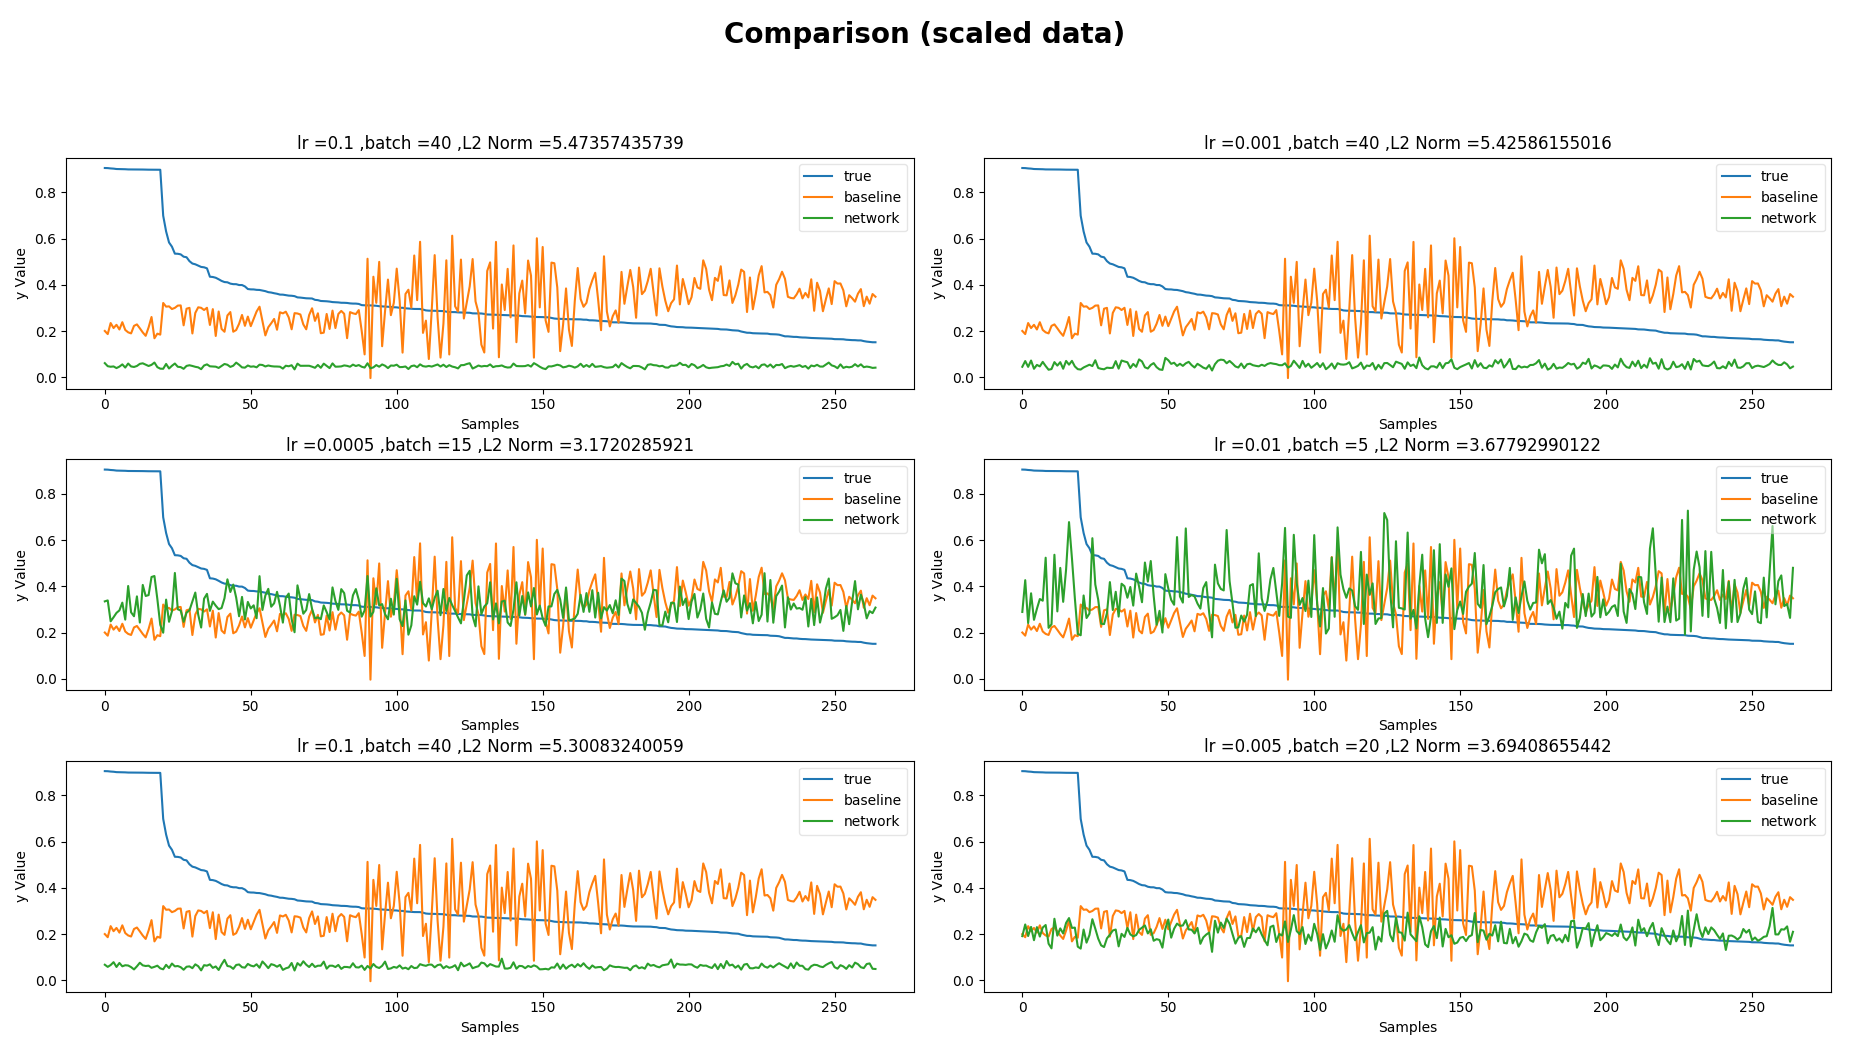
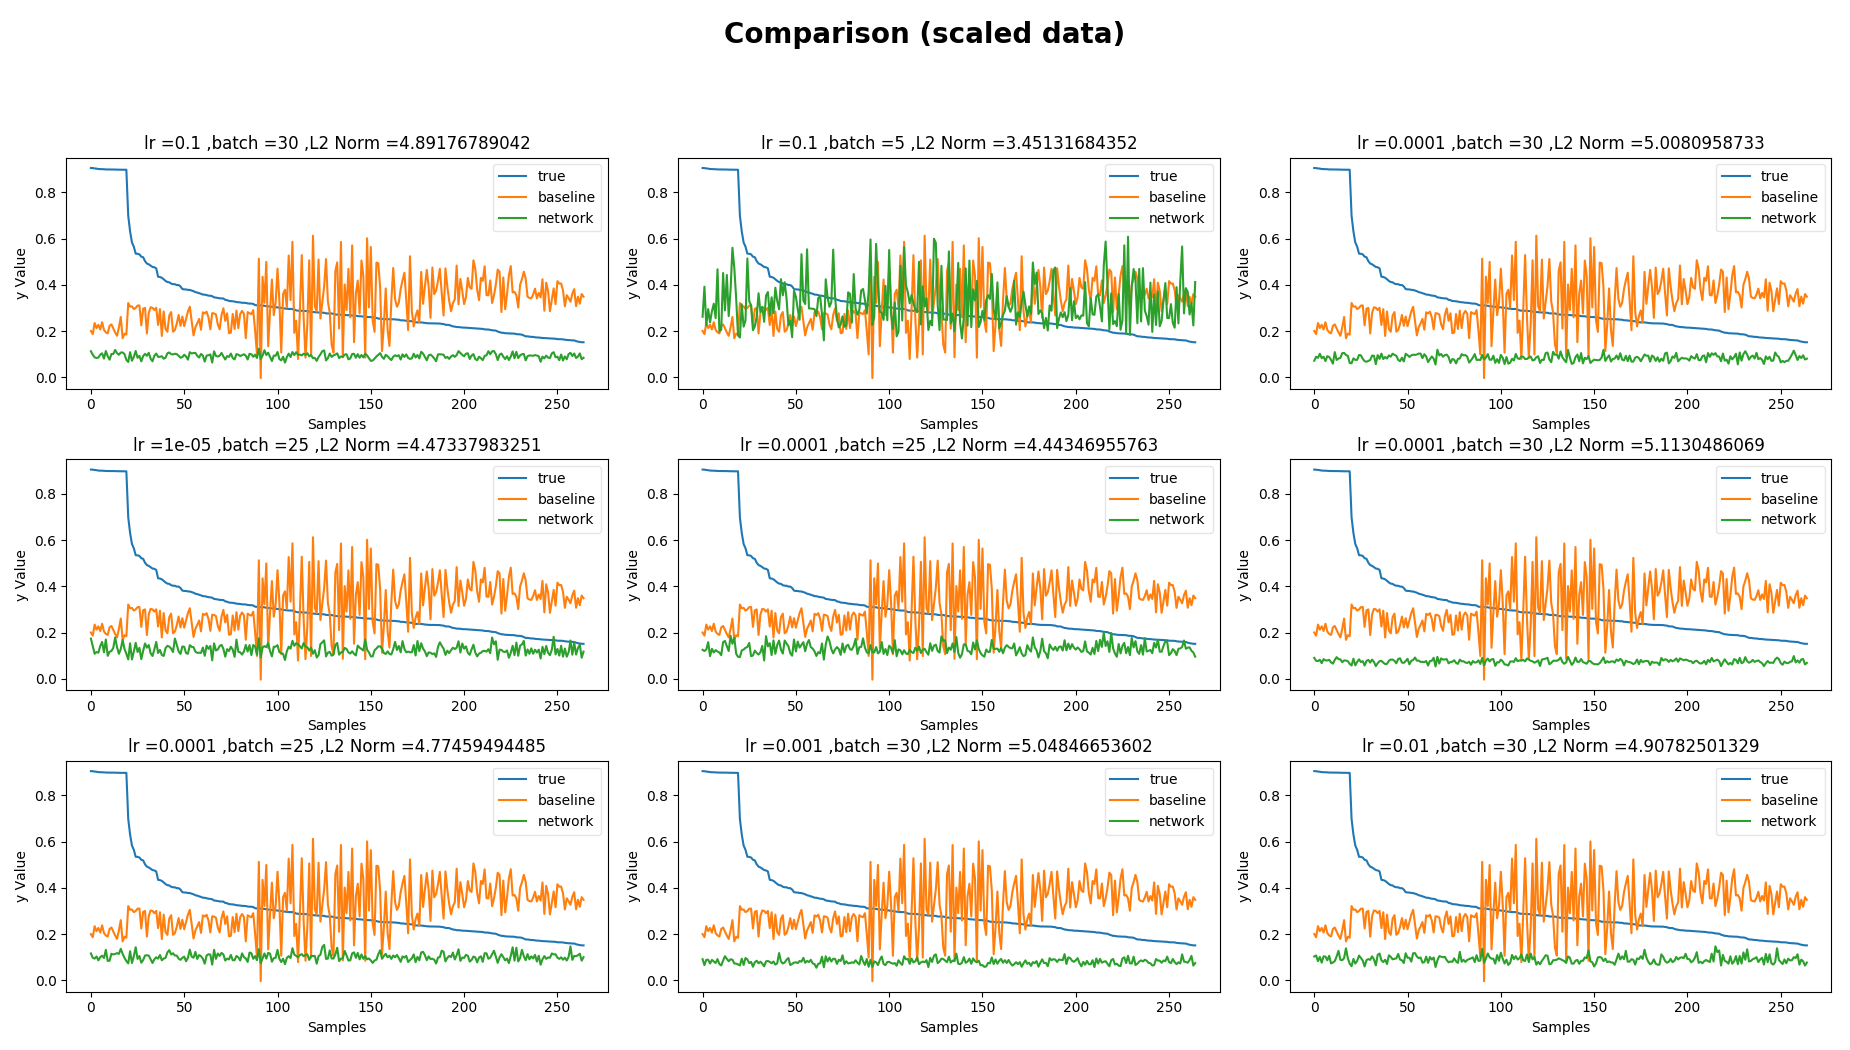
updates

diff --git a/Final Project/no regularization/mlp.py b/Final Project/no regularization/mlp.py
@@ -7,6 +7,9 @@ import tensorflow as tf
 import keras
 import numpy as np
 import pandas as pd
+from mpl_toolkits.mplot3d import Axes3D
+from matplotlib import cm
+from matplotlib.ticker import LinearLocator, FormatStrFormatter
 import matplotlib.pyplot as plt
 
 from sklearn.model_selection import cross_val_score
@@ -71,7 +74,7 @@ def preprocess_data(X):
 X, y, y_original = prepare_data(configs, learning_curves)
 X_scaled = preprocess_data(X)
 
-def mlp(X, y, batch_size, num_epochs, learning_rate, raw, learningrate):
+def mlp(X, y, batch_size, num_epochs, learning_rate, raw):
 
 	model = Sequential()
 	"""model.add(Dense(64, input_dim = 5, kernel_initializer = 'random_uniform', 
@@ -93,7 +96,7 @@ def mlp(X, y, batch_size, num_epochs, learning_rate, raw, learningrate):
 	#decay = learning_rate / num_epochs
 
 	#sgd = SGD(lr=0.1, decay=0.0, momentum=0.9)
-	adam = Adam(lr=learningrate)
+	adam = Adam(lr=learning_rate)
 	model.compile(loss = 'mean_squared_error', optimizer = 'adam')
 	
 	print('start training')
@@ -257,7 +260,7 @@ def plot():
 		fig1.savefig('model_loss_raw.png')
 		
 		# Loss (scaled data)
-		fig2, ax = plt.subplots(3, 2)
+		fig2, ax = plt.subplots(3, 3)
 		cnt = 0
 		for row in ax:
 			for col in row:
@@ -285,7 +288,7 @@ def plot():
 		plt.savefig('model_rawData(baseline).png')
 
 		#True vs Network (raw data)
-		fig4, ax = plt.subplots(3, 2)
+		fig4, ax = plt.subplots(3, 3)
 		cnt = 0
 		for row in ax:
 			for col in row:
@@ -303,7 +306,7 @@ def plot():
 		fig4.savefig('model_rawData(network).png')
 
 		# True vs Baseline vs Network (raw)
-		fig5, ax = plt.subplots(3, 2)
+		fig5, ax = plt.subplots(3, 3)
 		cnt = 0
 		for row in ax:
 			for col in row:
@@ -323,7 +326,7 @@ def plot():
 		fig5.savefig('metrics_comparison_raw.png')
 
 		# True vs Baseline vs Network (scaled)
-		fig6, ax = plt.subplots(3, 2)
+		fig6, ax = plt.subplots(3, 3)
 		cnt = 0
 		for row in ax:
 			for col in row:
@@ -353,7 +356,7 @@ def plot():
 		plt.savefig('model_scaledData(baseline).png')
 
 		#True vs Network (scaled data)
-		fig8, ax = plt.subplots(3, 2)
+		fig8, ax = plt.subplots(3, 3)
 		cnt = 0
 		for row in ax:
 			for col in row:
@@ -370,8 +373,8 @@ def plot():
 		plt.subplots_adjust(top=0.85)
 		fig8.savefig('model_scaledData(network).png')
 
-lrs = [0.1, 0.01, 0.001, 0.005, 0.0001, 0.0005]
-batches = [5, 10, 15, 20, 25, 40]
+lrs = [1e-1, 1e-2, 1e-3, 1e-4, 1e-5, 1e-6]
+batches = [5, 10, 15, 20, 25, 30]
 batches_used = []
 lr_used = []
 history = []
@@ -385,6 +388,7 @@ best_lr = 0
 best_batch = 0
 best_error = 100
 models = 9
+l2norm_all = []
 for model in range (models):
 	batch = np.random.choice(batches)
 	learningrate = np.random.choice(lrs)
@@ -392,8 +396,8 @@ for model in range (models):
 	lr_used.append(learningrate)
 	if (Training):
 		print("Start Training for configs: lr = " + str(learningrate) + " , batch size =" + str(batch))
-		history.append(mlp(X, y, batch, 1500, 0.1, raw = True, learningrate = learningrate))
-		history_scaled.append(mlp(X_scaled, y, batch, 1500, 0.1, raw = False, learningrate = learningrate))
+		history.append(mlp(X, y, batch, 1500, learning_rate = learningrate, raw = True))
+		history_scaled.append(mlp(X_scaled, y, batch, 1500, learning_rate = learningrate, raw = False))
 
 		raw = False
 		test(raw)
@@ -450,6 +454,8 @@ for model in range (models):
 	# The difference between the mlp and the baseline
 	y_error = abs(pred - net)
 	print("baseline scores predict scaled data: ", np.mean(y_error))
+
+	l2norm_all.append(np.linalg.norm(y - net))
 
 	if (np.linalg.norm(y - net) < best_error):
 		best_error = np.linalg.norm(y - net)
